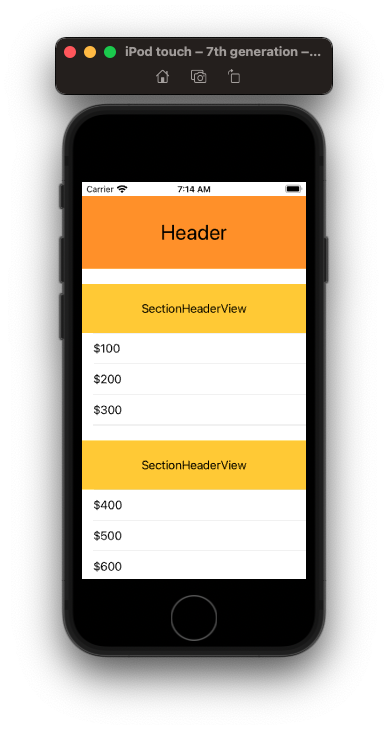
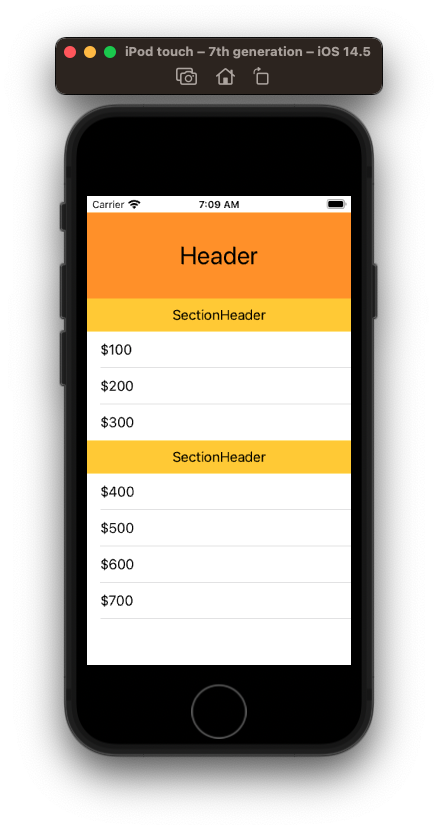
cleanup

Changed region(s): [[0.1237, 0.0301, 0.8969, 0.933], [0.4021, 0.301, 0.5876, 0.3311]]

diff --git a/basics/UITableView/HeaderFooterNib/README.md b/basics/UITableView/HeaderFooterNib/README.md
@@ -431,7 +431,7 @@ extension ViewController: UITableViewDataSource {
 //    }
 
     func tableView(_ tableView: UITableView, viewForHeaderInSection section: Int) -> UIView? {
-        let headerView: SectionHeader = SectionHeader()
+        let headerView = SectionHeaderView()
         return headerView
     }
         
@@ -443,43 +443,13 @@ extension ViewController: UITableViewDataSource {
 
 ![](images/3b.png)
 
+You'll notice when you scroll that the section header floats as you scroll up to it. If you don't want that, change the type of 
 
-### How to size your header and sections
+![](images/3c.png)
 
-When it comes to sizing, the frame of the nib is actually used. So size your nib to the frame size you want.
+This will add a footer to the bottom. But it will also ensure your section header no longer floats.
 
-![](images/4a.png)
-
-And then embed your controls in a view in the nib setting the height you want for the view as a constraint.
-
-![](images/4b.png)
-
-Pin the new embedded view to the edges of the nib (**important!** do not pin to `safeArea`).
-
-![](images/4c.png)
-
-There should be no ambiguity.
-
-![](images/4d.png)
-
-Now add your explicit height constraint.
-
-![](images/4e.png)
-
-![](images/4f.png)
-
-This section header will now have a hard wired height. If you run the app now...it still may not come out sized correctly, because you need to specifiy the section height explicitly in the view controller.
-
-```swift
-// MARK: - UITableViewDataSource
-extension ViewController: UITableViewDataSource {
-    func tableView(_ tableView: UITableView, heightForHeaderInSection section: Int) -> CGFloat {
-        return 56 // Should match what we set in the nib
-    }
-}
-```
-
-![](images/4g.png)
+![](images/3d.png)
 
 Note: The `heightForHeaderInSection` setting will override the height constraint in the nib. So if you set it to something really small.
 
@@ -499,11 +469,11 @@ extension ViewController: UITableViewDataSource {
 
 It will override the nib.
 
-![](images/4h.png)
+![](images/3e.png)
 
 Using this technique you can create custom headers and custom section headers.
 
-![](images/4i.png)
+![](images/3f.png)
 
 To get the layout above:
 
@@ -514,33 +484,17 @@ To get the layout above:
 - make the stackview with `fill` for alignment and distribution
 - resize the nib frame to match the height (i.e. 80)
 
-![](images/4j.png)
+![](images/3g.png)
 
-![](images/4k.png)
+![](images/3h.png)
 
-### Gap between section and header
+### Hiding the footer
 
-If you notice a gap between your section header and main header
-
-![](images/5a.png)
-
-try changing the `Style` of your table from `Plain` to `Grouped`.
-
-![](images/5b.png)
-
-That should hopefully get rid of the gap. 
-
-![](images/5c.png)
-
-This gap here at the bottom of the table is actually an empty table footer.
-
-<img src="images/5d.png" width="400">
-
-To get rid of it add the following to the table delegate extension.
+We aren't going to do this, but if you want to hide the footer add the following 
 
 ```swift
+// Hide footer
 extension ViewController : UITableViewDelegate {
-
     func tableView(_ tableView: UITableView, heightForFooterInSection section: Int) -> CGFloat {
         return CGFloat.leastNormalMagnitude
     }
@@ -548,9 +502,22 @@ extension ViewController : UITableViewDelegate {
     func tableView(_ tableView: UITableView, viewForFooterInSection section: Int) -> UIView? {
         return UIView()
     }
-
 }
 ```
+
+![](images/3i.png)
+
+## Create a footer
+
+Add a footer is the same as adding a header. Create a nib plain old nib and set its `File's Owner`.
+
+Create an outlet for its `contentView`.
+
+Then add it to your view controller like this.
+
+
+
+
 
 
 ## Create Custom Cells
@@ -676,6 +643,8 @@ extension ViewController: UITableViewDataSource {
 ```
 
 ![](images/7b.png)
+
+
 
 
 ### Links that help
